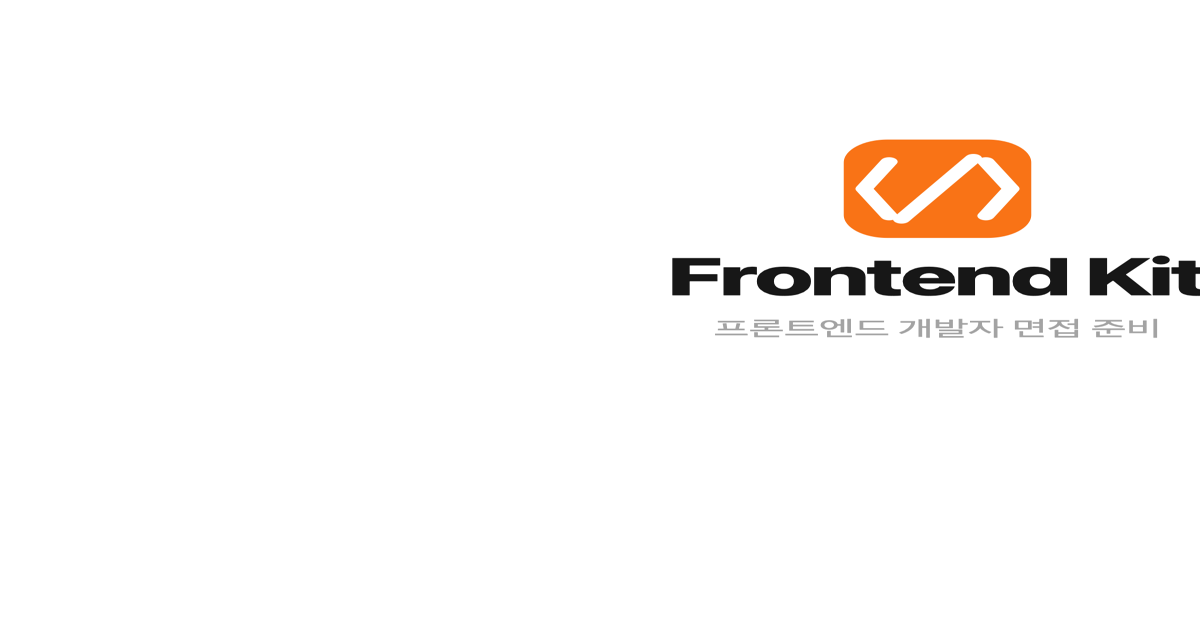
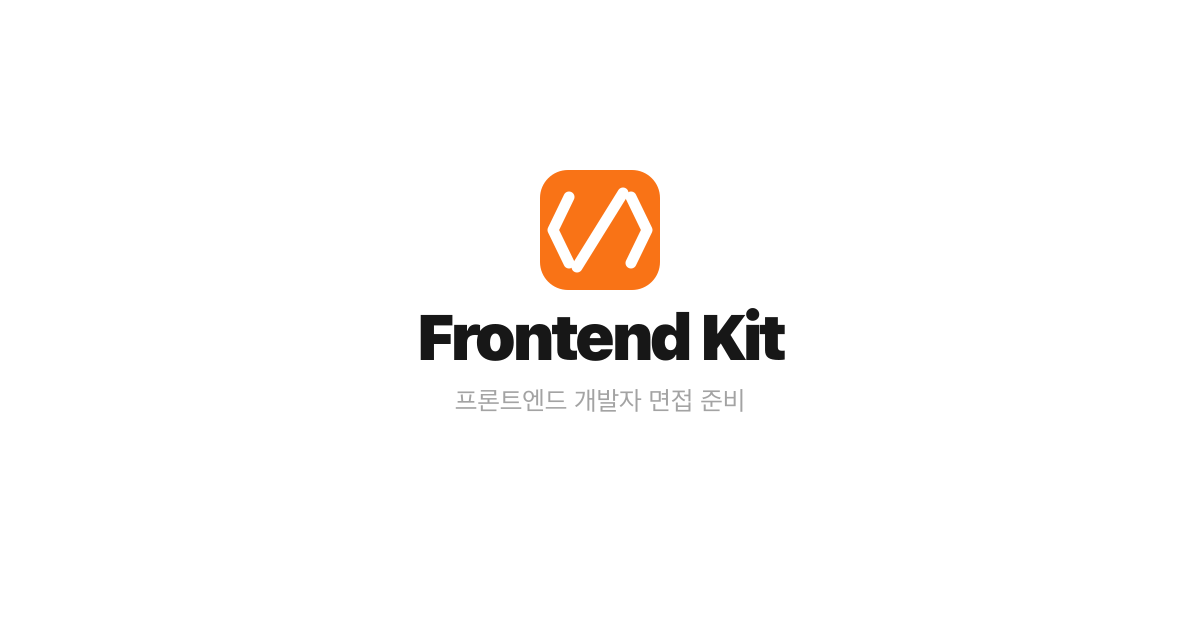
fix: OG 이미지 중앙정렬 수정 및 아이콘 생성 스크립트 제거
- og-image.png를 sharp로 재생성하여 중앙정렬 문제 수정
  (qlmanage의 SVG text-anchor 렌더링 오류)
- scripts/generate-icons.sh 삭제
- CLAUDE.md에서 스크립트 관련 내용 제거

Changed region(s): [[0.3392, 0.2111, 1.0, 0.573], [0.37, 0.6032, 0.6167, 0.6635]]

diff --git a/CLAUDE.md b/CLAUDE.md
@@ -11,12 +11,6 @@ pnpm lint        # Run ESLint
 pnpm start       # Start production server
 ```
 
-**Icon regeneration** (run after changing `public/favicon.svg`):
-```bash
-bash scripts/generate-icons.sh
-```
-This uses macOS `qlmanage` + `sips` to generate all PNG icons from the SVG source.
-
 ## Architecture
 
 ### Data Flow
@@ -67,5 +61,4 @@ IDs must be unique within the file. `questions.ts` auto-includes the new data vi
 ### Icons & OG Image
 
 - Source of truth: `public/favicon.svg` (orange `</>` icon)
-- All PNGs are generated from this SVG via `scripts/generate-icons.sh`
 - OG image source: `public/og-image.svg` → rendered to `public/og-image.png`
